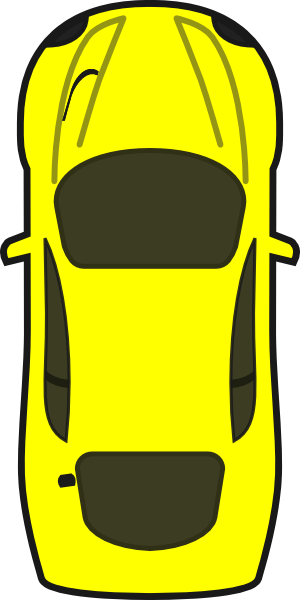
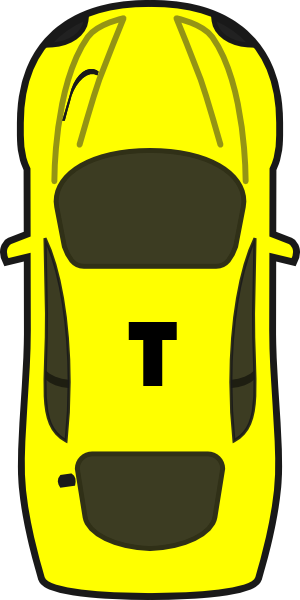
Change team car colors, fix bug where disconnecting user wasn't freeing up their item

Changed region(s): [[0.42, 0.51, 0.6, 0.66]]

diff --git a/mapgame.js b/mapgame.js
@@ -172,8 +172,23 @@ var itemIcon = {
   url: 'images/smoking_toilet_small.gif'
 };
 
-var otherCarIcon = {
-  url: 'images/car_red.png',
+var teamCrushUserCarIcon = {
+  url: 'images/crush_car.png',
+  origin: new google.maps.Point(0, 0),
+  anchor: new google.maps.Point(16, 32)
+};
+var teamTownUserCarIcon = {
+  url: 'images/car.png',
+  origin: new google.maps.Point(0, 0),
+  anchor: new google.maps.Point(16, 32)
+};
+var teamTownOtherCarIcon = {
+  url: 'images/team_town_other_car.png',
+  origin: new google.maps.Point(0, 0),
+  anchor: new google.maps.Point(16, 32)
+};
+var teamCrushOtherCarIcon = {
+  url: 'images/team_crush_other_car.png',
   origin: new google.maps.Point(0, 0),
   anchor: new google.maps.Point(16, 32)
 };
@@ -272,6 +287,7 @@ function gameJoined(gameData, isNewGame) {
     activateTeamCrushInUI();
   }
   updateUsernamesInUI();
+  updateCarIcons();
 }
 
 function updateUsernamesInUI() {
@@ -502,6 +518,7 @@ function putNewItemOnMap(location, itemId) {
   // eventually this should be redundant to clear this, but while
   // there's a bug on multiplayer joining, clear it again
   collectedItem = null;
+  gameDataObject.peerIdOfCarWithItem = null;
 
   // set the base icon images to be the lighter ones
   teamTownBaseMapObject.marker.setIcon(teamTownBaseTransparentIcon);
@@ -657,9 +674,14 @@ function connectedToPeer(peerJsConnection) {
   if (!otherUsers[otherUserPeerId] || !otherUsers[otherUserPeerId].peerJsConnection) {
     initializePeerConnection(peerJsConnection, otherUserPeerId);
     assignUserToTeam(otherUserPeerId);
+    createOtherUserCar(otherUserPeerId);
   }
-  addCarDataToUserObject(otherUserPeerId);
   updateUsernamesInUI();
+}
+
+function createOtherUserCar(otherUserPeerId) {
+  otherUsers[otherUserPeerId].peerId = otherUserPeerId;
+  otherUsers[otherUserPeerId].car = {};
 }
 
 function assignUserToTeam(otherUserPeerId) {
@@ -738,6 +760,12 @@ function otherUserDisconnected(otherUserPeerId) {
     switchToNewHost(gameId, peer.id);
   }
 
+  // if the user who disconnected currently had an item,
+  // put out a new one
+  if (gameDataObject.peerIdOfCarWithItem && gameDataObject.peerIdOfCarWithItem == otherUserPeerId && hostPeerId == peer.id) {
+    randomlyPutItems();
+  }
+
   // delete that user's data
   delete otherUsers[otherUserPeerId];
 
@@ -813,6 +841,7 @@ function dataReceived(data) {
       updateUsername(peer.id, username);
       updateUIWithNewGameState();
       assignMyTeamBase();
+      updateCarIcons();
     }
     if (data.event.name == 'new_location') {
       console.log('received event: new location ' + data.event.lat + ',' + data.event.lng);
@@ -873,7 +902,7 @@ function dataReceived(data) {
     updateUsername(data.peerId, data.username);
   }
 
-  if (data.peerId && data.carLatLng && otherUsers[data.peerId] && otherUsers[data.peerId].car) {
+  if (data.peerId && data.carLatLng && otherUsers[data.peerId]) {
     moveOtherCar(otherUsers[data.peerId], new google.maps.LatLng(data.carLatLng.lat, data.carLatLng.lng));
   }
 }
@@ -924,6 +953,38 @@ function updateUIWithNewGameState() {
   assignMyTeamInUI();
 }
 
+function updateCarIcons() {
+  updateTeamUsersCarIcons(gameDataObject.teamTownObject.users, teamTownOtherCarIcon);
+  updateTeamUsersCarIcons(gameDataObject.teamCrushObject.users, teamCrushOtherCarIcon);
+  updateMyCarIcon();
+}
+
+function updateMyCarIcon() {
+  var userCarImgSrc = 'images/crush_car.png';
+  if (userIsOnTownTeam(peer.id)) {
+    userCarImgSrc = 'images/car.png';
+  }
+  $('#car-img').attr('src', userCarImgSrc);
+}
+
+function updateTeamUsersCarIcons(teamUsers, teamCarIcon) {
+  for (var i = 0; i < teamUsers.length; i++) {
+    // remove any existing marker
+    if (otherUsers[teamUsers[i].peerId] && otherUsers[teamUsers[i].peerId].car && otherUsers[teamUsers[i].peerId].car.marker) {
+      otherUsers[teamUsers[i].peerId].car.marker.setMap(null);
+    }
+
+    if (teamUsers[i].peerId != peer.id) {
+      otherUsers[teamUsers[i].peerId].car.marker = new google.maps.Marker({
+        map: map,
+        title: teamUsers[i].peerId,
+        icon: teamCarIcon
+      });
+    }
+
+  }
+}
+
 function updateScoresInUI(teamTownNumItemsReturned, teamCrushNumItemsReturned) {
   $('#num-items-team-town').text(teamTownNumItemsReturned);
   flashElement($('#num-items-team-town'));
@@ -939,22 +1000,6 @@ function moveItemOnMap(lat, lng) {
   itemMapObject.marker.setPosition(itemMapObject.location);
 }
 
-function addCarDataToUserObject(peerId) {
-  if (!otherUsers[peerId]) {
-    otherUsers[peerId] = {};
-  }
-  var otherCarMarker = new google.maps.Marker({
-    map: map,
-    title: peerId,
-    icon: otherCarIcon
-  });
-
-  otherUsers[peerId].peerId = peerId;
-  otherUsers[peerId].car = {
-    marker: otherCarMarker
-  };
-}
-
 function otherUserReturnedItem(otherUserPeerId, nowNumItemsForUser) {
   gameDataObject.peerIdOfCarWithItem = null;
   incrementItemCount(userIsOnTownTeam(otherUserPeerId))
@@ -962,7 +1007,14 @@ function otherUserReturnedItem(otherUserPeerId, nowNumItemsForUser) {
 }
 
 function moveOtherCar(otherUserObject, newLocation) {
+  if (!otherUserObject.car) {
+    return;
+  }
+
   otherUserObject.car.location = newLocation;
+  if (!otherUserObject.car.marker) {
+    updateCarIcons();
+  }
   // if the other car has an item, update the destination
   // to be it
   if (gameDataObject.peerIdOfCarWithItem == otherUserObject.peerId) {
@@ -1090,7 +1142,7 @@ function update(step) {
     } else {
       // if another user has an item, and their car has a location,
       // then constantly set the destination to their location
-      if (otherUsers[gameDataObject.peerIdOfCarWithItem] && otherUsers[gameDataObject.peerIdOfCarWithItem].car.location) {
+      if (otherUsers[gameDataObject.peerIdOfCarWithItem] && otherUsers[gameDataObject.peerIdOfCarWithItem].location && otherUsers[gameDataObject.peerIdOfCarWithItem].car.location) {
         destination = otherUsers[gameDataObject.peerIdOfCarWithItem].car.location;
       }
     }
